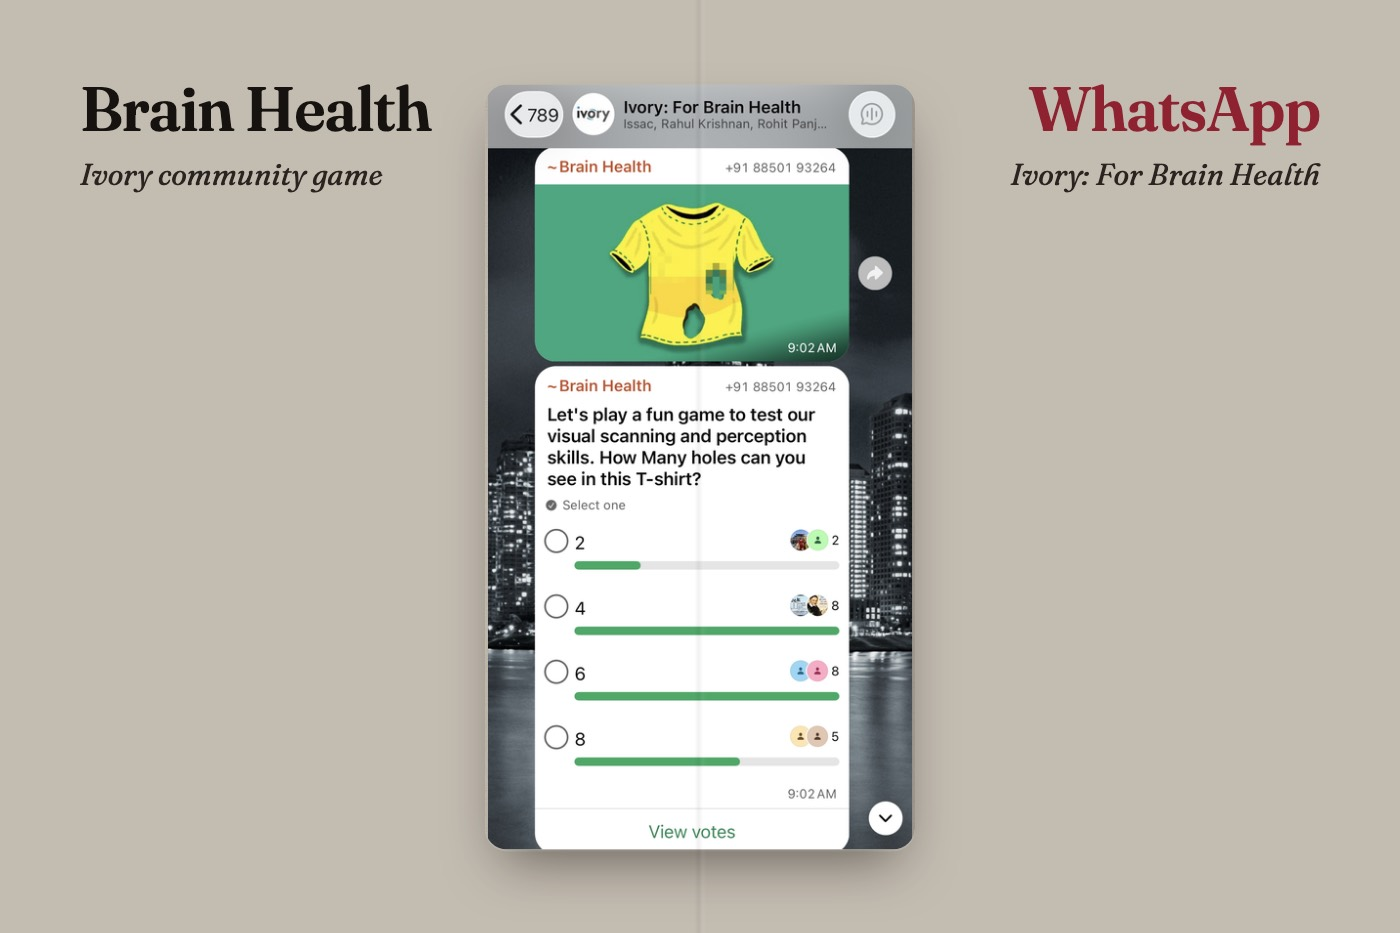
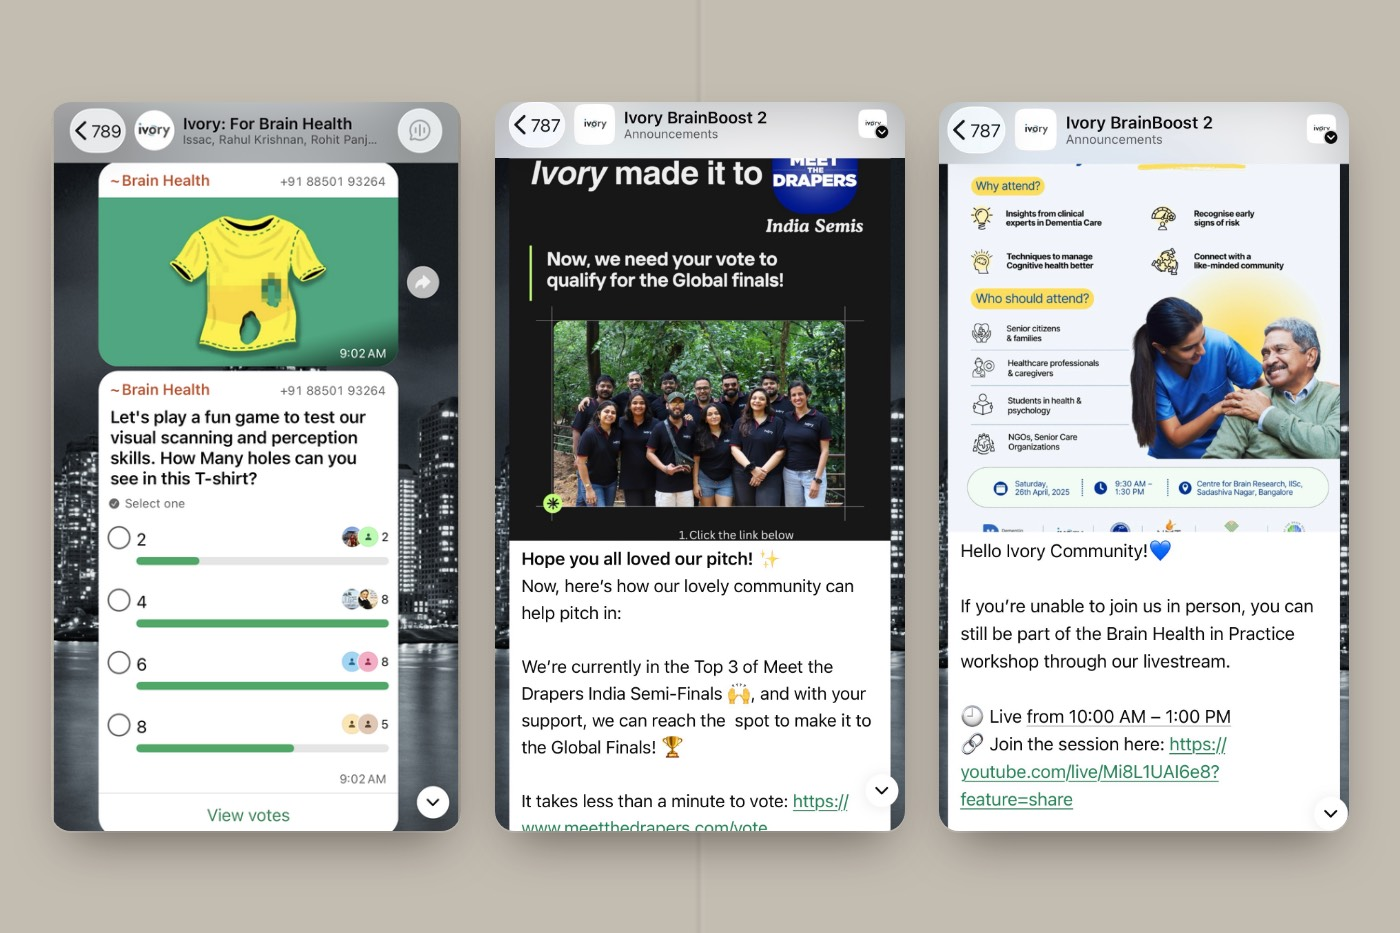
Community clipping shows three rooms, not one
The game poll, the Meet the Drapers vote drive and the workshop
livestream, side by side. Captions dropped: the screenshots carry it.

diff --git a/index.html b/index.html
@@ -720,7 +720,7 @@ a.chip:hover{border-color:var(--accent)}
 
       <div class="prob rv">
         <h3 class="r">Launched into a room, not a void.</h3>
-        <figure class="clip"><img loading="lazy" src="case/community.jpg" alt="A WhatsApp group running a brain health game" width="1400" height="933"></figure>
+        <figure class="clip"><img loading="lazy" src="case/community.jpg" alt="Three announcements in the Ivory WhatsApp community: a brain health game, a Meet the Drapers vote, and a workshop livestream" width="1400" height="933"></figure>
         <p class="m">Built a 3,000 member WhatsApp community of caregivers before the product shipped.</p>
         <a class="cta" href="systems/case-community.html">Read the case study <svg class="ar" viewBox="0 0 24 24" fill="none" stroke="currentColor" stroke-width="2.1" stroke-linecap="round" stroke-linejoin="round" aria-hidden="true"><path d="M4.5 12h13.3M12.3 6.1 18.6 12l-6.3 5.9"/></svg></a></div>
 
